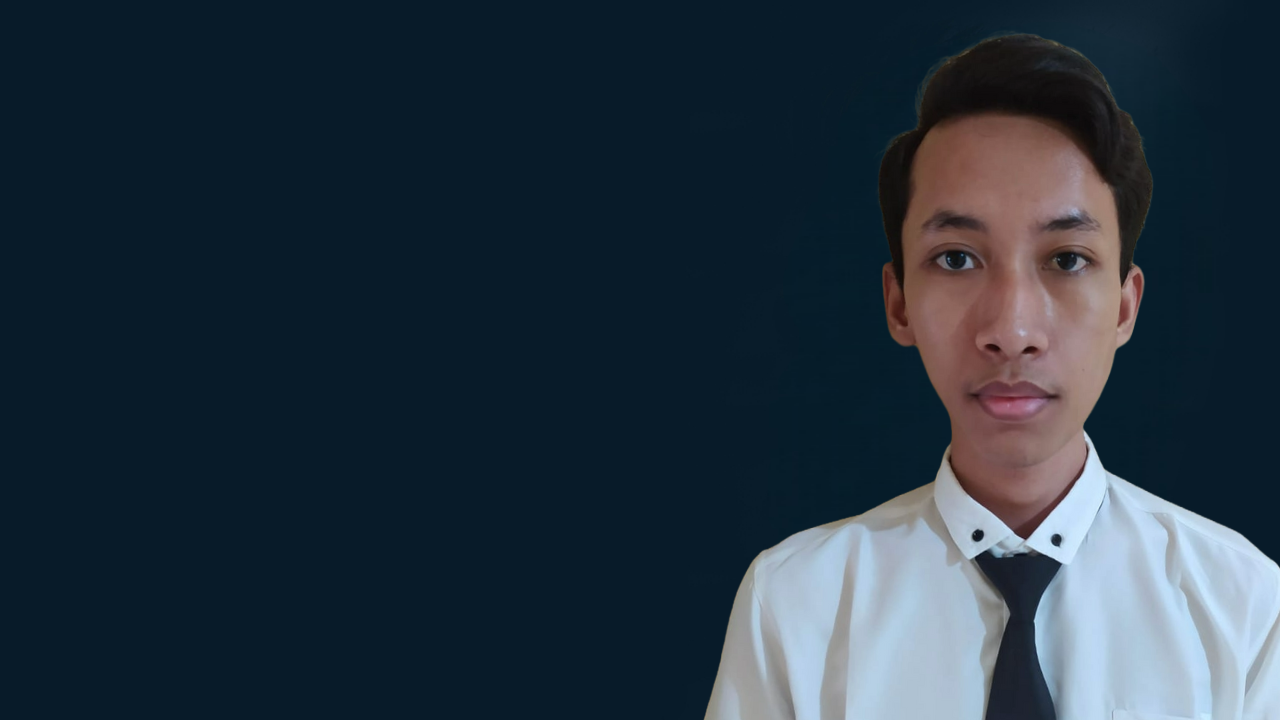
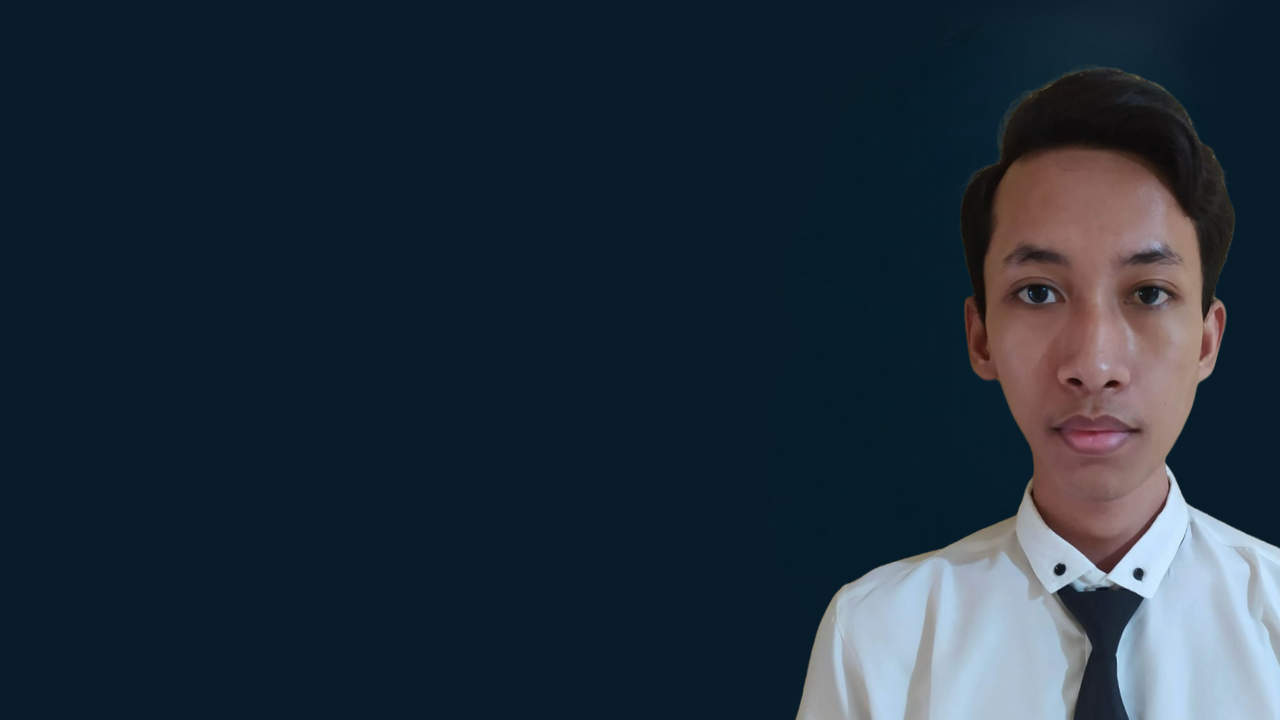
Update index.html, style.css & images

Changed region(s): [[0.5312, 0.0306, 1.0, 1.0]]

diff --git a/index.html b/index.html
@@ -5,7 +5,7 @@
     <meta charset="UTF-8">
     <meta http-equiv="X-UA-Compatible" content="IE=edge">
     <meta name="viewport" content="width=device-width, initial-scale=1.0">
-    <title>Personal Portfolio</title>
+    <title>Personal Website | Fatih Muflih</title>
 
     <link rel="stylesheet" href="css/style.css">
 
@@ -49,7 +49,7 @@
             </p>
 
             <div class="btn-box">
-                <a href="https://drive.google.com/file/d/1y0jbFCQujSOzbV5KJZ__5X3HRsIITSio/view?usp=sharing" class="btn">Hire Me</a>
+                <a href="https://drive.google.com/file/d/191m8dX99W-EEeSP9_rWGRVGdSUK6fGYv/view?usp=sharing" class="btn">Hire Me</a>
                 <a href="https://wa.me/62895397084633" class="btn">Lets's Talk</a>
                 <span class="animate" style="--i:5;"></span>
             </div>
@@ -105,12 +105,12 @@
                 <div class="education-box">
                     <div class="education-content">
                         <div class="content">
-                            <div class="year"><i class='bx bxs-calendar'></i> 2015 - 2018</div>
-                            <h3>SMP Negeri 53 Surabaya</h3>
+                            <div class="year"><i class='bx bxs-calendar'></i> 2023 - 2026</div>
+                            <h3>D3 Informatics Engineering - PENS</h3>
                             <p>
-                                During my time at SMP Negeri 53 Surabaya, where I developed a strong foundation in 
-                                mathematics, science, and language arts. This period was crucial in shaping my interest 
-                                in technology and problem-solving.
+                                I completed a diploma in Informatics Engineering at PENS. My courses cover advanced 
+                                programming, database, and web development. My studies are focused on gaining 
+                                practical experience and industry-relevant skills.
                             </p>
                         </div>
                     </div>
@@ -129,12 +129,12 @@
 
                     <div class="education-content">
                         <div class="content">
-                            <div class="year"><i class='bx bxs-calendar'></i> 2023 - 2026</div>
-                            <h3>D3 Informatics Engineering - PENS</h3>
+                            <div class="year"><i class='bx bxs-calendar'></i> 2015 - 2018</div>
+                            <h3>SMP Negeri 53 Surabaya</h3>
                             <p>
-                                I completed a diploma in Informatics Engineering at PENS. My courses cover advanced 
-                                programming, database, and web development. My studies are focused on gaining 
-                                practical experience and industry-relevant skills.
+                                During my time at SMP Negeri 53 Surabaya, where I developed a strong foundation in 
+                                mathematics, science, and language arts. This period was crucial in shaping my interest 
+                                in technology and problem-solving.
                             </p>
                         </div>
                     </div>
@@ -149,19 +149,19 @@
                 <div class="education-box">
                     <div class="education-content">
                         <div class="content">
-                            <div class="year"><i class='bx bxs-calendar'></i> September - December 2020</div>
-                            <h3>Hardware Distribution - Hi Tech Mall SBY</h3>
+                            <div class="year"><i class='bx bxs-calendar'></i> 2024</div>
+                            <h3>React JS - Sanbercode Bootcamp</h3>
                             <p>
-                                During my internship at Hi Tech Mall SBY, I was responsible for managing the distribution 
-                                of computer hardware. This role taught me the importance of logistics, inventory 
-                                management, and customer service.
+                                I participated in the Sanbercode Bootcamp where I specialized in React JS. During this 
+                                program, I developed a deep understanding of component-based architecture, state 
+                                management, and React hooks.
                             </p>
                         </div>
                     </div>
 
                     <div class="education-content">
                         <div class="content">
-                            <div class="year"><i class='bx bxs-calendar'></i> January - February 2021</div>
+                            <div class="year"><i class='bx bxs-calendar'></i> 2021</div>
                             <h3>IT Support - BNN Provinsi Jawa Timur</h3>
                             <p>
                                 As an IT Support intern at BNN Provinsi Jawa Timur, I provided technical assistance to 
@@ -173,12 +173,12 @@
 
                     <div class="education-content">
                         <div class="content">
-                            <div class="year"><i class='bx bxs-calendar'></i> July - November 2022</div>
-                            <h3>Web Design - Pre Employment Card Traning</h3>
+                            <div class="year"><i class='bx bxs-calendar'></i> 2020</div>
+                            <h3>Hardware Distribution - Hi Tech Mall SBY</h3>
                             <p>
-                                I took part in a web design project for the Pre-Employment Card Training, where I wrote 
-                                programming code to design websites and designed and implemented user interfaces using 
-                                HTML as a website designer.
+                                During my internship at Hi Tech Mall SBY, I was responsible for managing the distribution 
+                                of computer hardware. This role taught me the importance of logistics, inventory 
+                                management, and customer service.
                             </p>
                         </div>
                     </div>
@@ -215,7 +215,7 @@
                         </div>
 
                         <div class="progress">
-                            <h3>NodeJS <span>80%</span></h3>
+                            <h3>React JS <span>73%</span></h3>
                             <div class="bar"><span></span></div>
                         </div>
                     </div>

diff --git a/css/style.css b/css/style.css
@@ -87,7 +87,7 @@ section {
     display: flex;
     align-items: center;
     padding: 0 9%;
-    background: url('/images/home1.jpg') no-repeat;
+    background: url('/images/home2.png') no-repeat;
     background-size: cover;
     background-position: center;
 }
@@ -540,7 +540,7 @@ span {
 }
 
 .skills-column:nth-child(1) .skills-content .progress:nth-child(4) .bar span {
-    width: 80%;
+    width: 73%;
 }
 
 .skills-column:nth-child(2) .skills-content .progress:nth-child(1) .bar span {
